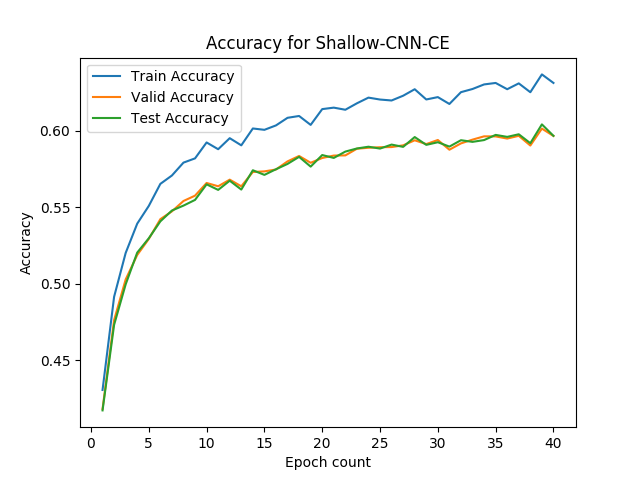
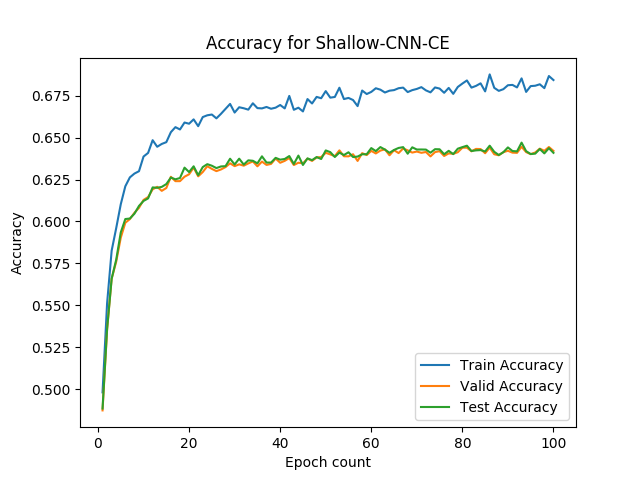
CNN CE

diff --git a/training.py b/training.py
@@ -13,7 +13,7 @@ target_length = 300 # 50
 learning_rate = 0.001
 num_words, dim_embedding = 11400, 100 # 100
 num_classes = 20
-num_epochs = 40
+num_epochs = 100
 base_path = "data/"
 word_path = "char_embeddings/" # char_embeddings
 
@@ -97,7 +97,6 @@ def load_data(x_path, y_path, target_length):
 
         to_concat = y[0:gap]
         batched_y[-1-i] = np.concatenate([batched_y[-1-i], to_concat])
-        print("WAS ADDED!")
         i += 1
     
     print(len(batched_X[-1]))
@@ -182,11 +181,14 @@ def train_model(data_pack, num_epochs, learning_rate, num_words, dim_embedding, 
             optimizer.zero_grad()
             batch_x = train_X[s1[i]]
             batch_y = train_y[s1[i]]
-            batch_x = torch.unsqueeze(torch.Tensor(batch_x).type('torch.LongTensor'), 2)
             #print(s1[i])
             #print(len(train_X))
             #print(batch_x.shape)
+            
+            batch_x = torch.Tensor(batch_x).type('torch.LongTensor')
             if word_path == "char_embeddings/":
+                batch_x = torch.unsqueeze(batch_x, 2)
+                
                 batch_x_one.zero_()
                 batch_x_one.scatter_(2, batch_x, 2)
                 batch_x = batch_x_one
@@ -234,6 +236,7 @@ def run_testing(model, criterion, train_X, train_y, batch_x_one=None):
         batch_y = train_y[i]
         batch_x = torch.Tensor(batch_x).type('torch.LongTensor')
         if word_path == "char_embeddings/":
+            batch_x = torch.unsqueeze(batch_x, 2)
             batch_x_one.zero_()
             batch_x_one.scatter_(2, batch_x, 2)
             batch_x = batch_x_one
